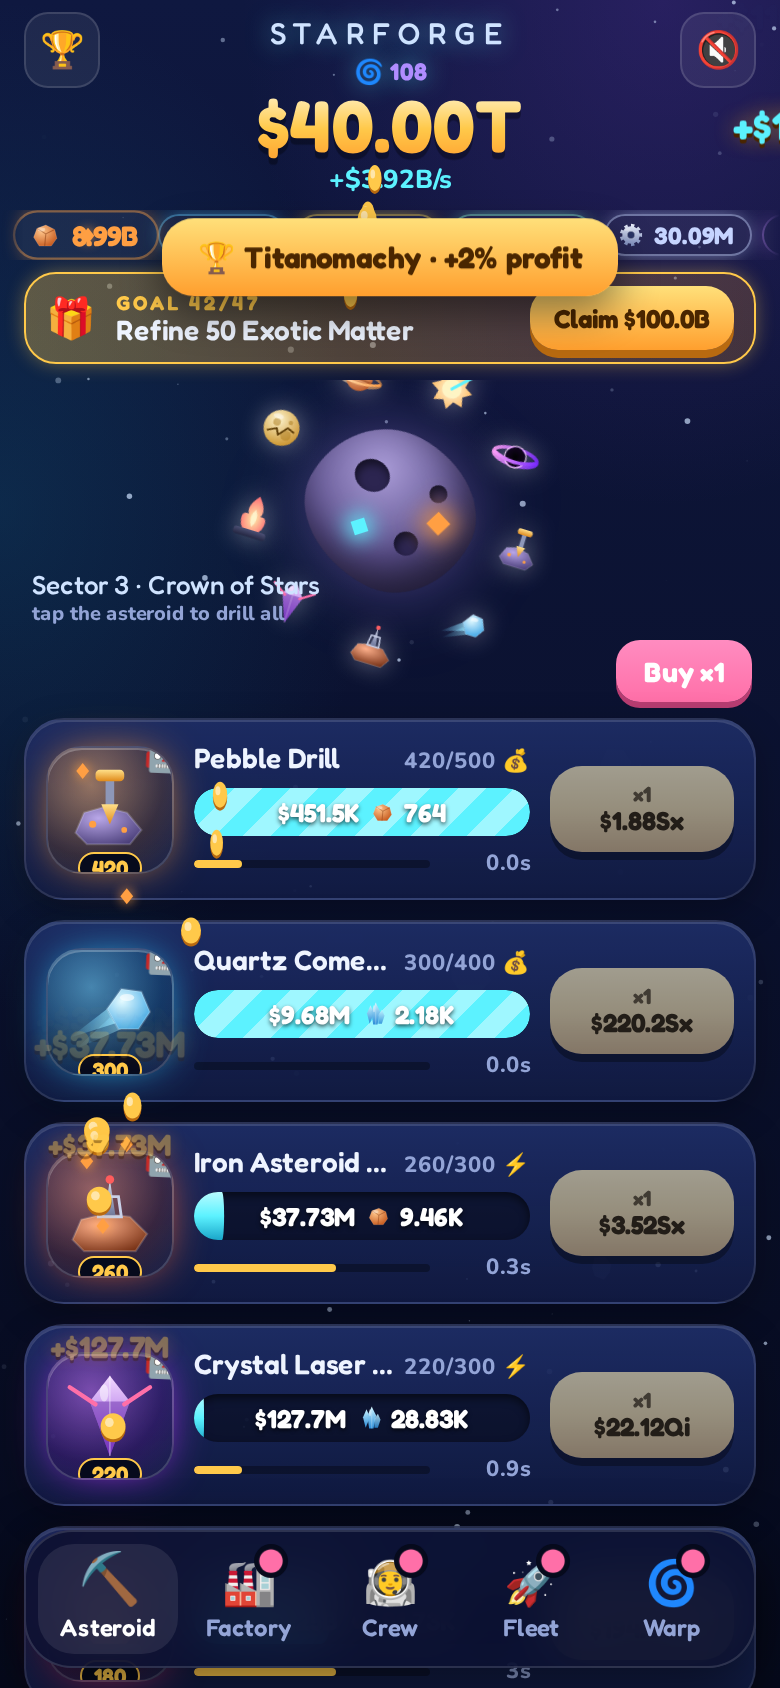
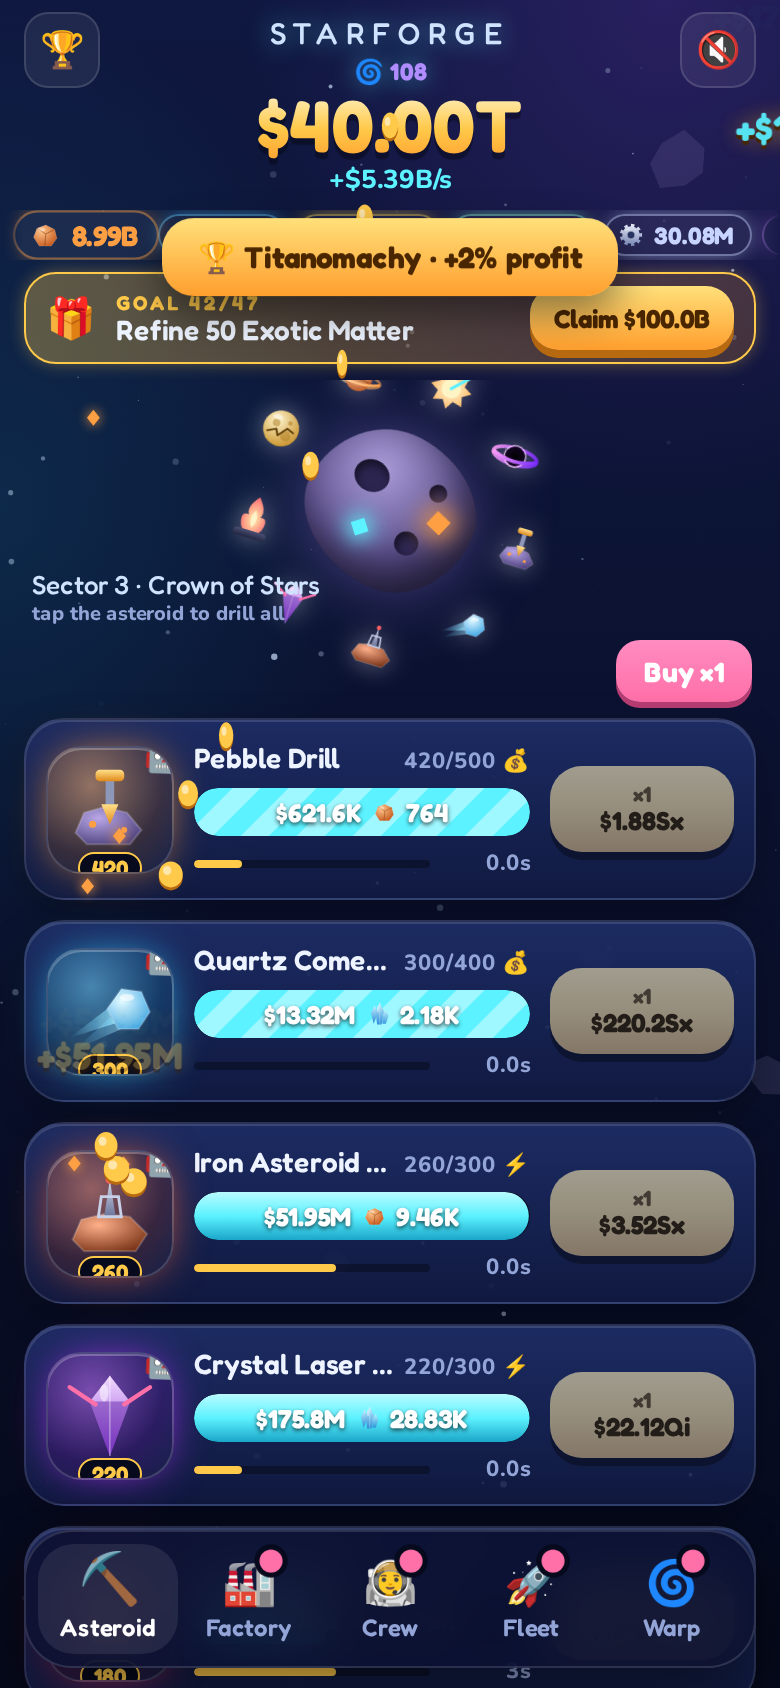
Diminishing Dark Matter curve, copy

diff --git a/src/main.ts b/src/main.ts
@@ -274,13 +274,13 @@ function missionsTick() {
 // ---------- WARP ----------
 function renderWarp() {
   const s = st();
-  if (!G.warpOpen()) { main.innerHTML = `<div class="gate card"><div class="hero">🌀</div><h2 class="h">Warp Drive dormant</h2><p>Reach <b>$100T lifetime earnings</b> to charge it. Warping resets this sector for <b>Dark Matter</b>: +2% profit, +1% ore & factory speed each — forever.</p><div class="gbar"><i style="width:${Math.min(100, Math.log10(G.allTime() + 1) / 14 * 100)}%"></i></div><small>$${fmt(G.allTime())} / $100T</small></div>` + perks() + stats(); return; }
+  if (!G.warpOpen()) { main.innerHTML = `<div class="gate card"><div class="hero">🌀</div><h2 class="h">Warp Drive dormant</h2><p>Reach <b>$100T lifetime earnings</b> to charge it. Warping resets this sector for <b>Dark Matter</b>: a permanent profit multiplier, plus +1% ore & factory speed each — and every warp opens a new sector with new tech.</p><div class="gbar"><i style="width:${Math.min(100, Math.log10(G.allTime() + 1) / 14 * 100)}%"></i></div><small>$${fmt(G.allTime())} / $100T</small></div>` + perks() + stats(); return; }
   const g = G.dmGain();
   main.innerHTML = `<div class="nova card"><div class="sun">🌀</div><h2 class="h">Warp to a new sector</h2><p>Resets mines, factory, fleet and planets. Keeps <b style="color:var(--violet)">Dark Matter</b> and trophies.</p><div class="h gain">+${fmt(g, 0)} 🌀</div><p class="sectorline">Next: <b>Sector ${G.sector() + 1} · ${SECTORS[Math.min(G.sector(), SECTORS.length - 1)]}</b></p><button class="btn gold big" id="go" ${g < 1 ? 'disabled' : ''}>${g < 1 ? 'Next at $' + fmt(G.dmNext()) + ' all-time' : 'ENGAGE WARP'}</button></div>` + perks() + stats();
   $('#go')?.addEventListener('click', () => { if (G.dmGain() < 1) return; confirmModal('🌀', 'Engage warp?', `Reset this sector for +${fmt(G.dmGain(), 0)} Dark Matter and jump to Sector ${G.sector() + 1}.`, 'WARP', () => { G.doWarp(); G.save(); sfx.warp(); buzz([50, 50, 100, 50, 200]); flash(); for (let k = 0; k < 5; k++) setTimeout(() => burst(Math.random() * innerWidth, Math.random() * innerHeight * .6, 40), k * 120); setTab('mine'); }); });
 }
 function perks() { const s = st(); return `<div class="sec">Warp perks</div>${PERKS.map(p => `<div class="row perk ${s.warps >= p.warps ? 'got' : 'dim'}"><div class="ico sm">${p.e}</div><div class="mid"><div class="name">${p.name} <small>${s.warps >= p.warps ? '✓ active' : `after warp ${p.warps}`}</small></div><p>${p.desc}</p></div></div>`).join('')}`; }
-function stats() { const s = st(); return `<div class="sec">Stats</div><div class="card stats">${[['Dark Matter', `${fmt(s.dm, 0)} (+${Math.round(s.dm * 2)}%)`], ['Trophy bonus', `+${Math.round((G.achMul() - 1) * 100)}%`], ['Planet bonus', '×' + fmt(G.planetMul())], ['Earned this sector', '$' + fmt(s.life)], ['All-time', '$' + fmt(G.allTime())], ['Missions won / ships lost', `${s.wins} / ${s.lost}`], ['Play time', fmtT(s.played)], ['Taps', s.taps]].map(([a, b]) => `<div class="stat"><span>${a}</span><b>${b}</b></div>`).join('')}</div><div class="sec">Settings</div><button class="btn big ghost" id="reset">Reset save</button>`; }
+function stats() { const s = st(); return `<div class="sec">Stats</div><div class="card stats">${[['Dark Matter', `${fmt(s.dm, 0)} (profit ×${fmt(G.dmMul())})`], ['Trophy bonus', `+${Math.round((G.achMul() - 1) * 100)}%`], ['Planet bonus', '×' + fmt(G.planetMul())], ['Earned this sector', '$' + fmt(s.life)], ['All-time', '$' + fmt(G.allTime())], ['Missions won / ships lost', `${s.wins} / ${s.lost}`], ['Play time', fmtT(s.played)], ['Taps', s.taps]].map(([a, b]) => `<div class="stat"><span>${a}</span><b>${b}</b></div>`).join('')}</div><div class="sec">Settings</div><button class="btn big ghost" id="reset">Reset save</button>`; }
 document.addEventListener('click', e => { if ((e.target as HTMLElement).id === 'reset') confirmModal('🗑', 'Reset everything?', 'Wipes all progress including Dark Matter and trophies.', 'Reset', () => { localStorage.removeItem(G.KEY); G.setS(G.fresh()); setTab('mine'); renderGoal(); }); });
 
 // ---------- modals ----------

diff --git a/src/game/state.ts b/src/game/state.ts
@@ -39,7 +39,8 @@ export const prevMs = (n: number) => { const m = msIdx(n); return m ? MILESTONES
 export const cycle = (i: number) => MINES[i].t / Math.pow(2, Math.min(msIdx(S.mines[i].n), 6));
 export const planetMul = () => PLANETS.reduce((a, p) => S.conquered.includes(p.id) ? a * p.bonus : a, 1);
 export const achMul = () => 1 + S.ach.length * 0.02;
-export const globalMul = () => (1 + S.dm * 0.02) * planetMul() * achMul();
+export const dmMul = () => 1 + 0.1 * Math.pow(S.dm, 0.75);
+export const globalMul = () => dmMul() * planetMul() * achMul();
 export const revMul = (i: number) => { let m = globalMul() * Math.pow(2, Math.max(0, msIdx(S.mines[i].n) - 6)); for (const t of TECH) if ((t.tgt === i || t.tgt === -1) && S.tech.includes(t.id)) m *= t.x; return m; };
 export const revenue = (i: number) => MINES[i].rev * S.mines[i].n * revMul(i);
 export const oreMul = () => (1 + S.conquered.length * 0.5) * (1 + S.dm * 0.01);
